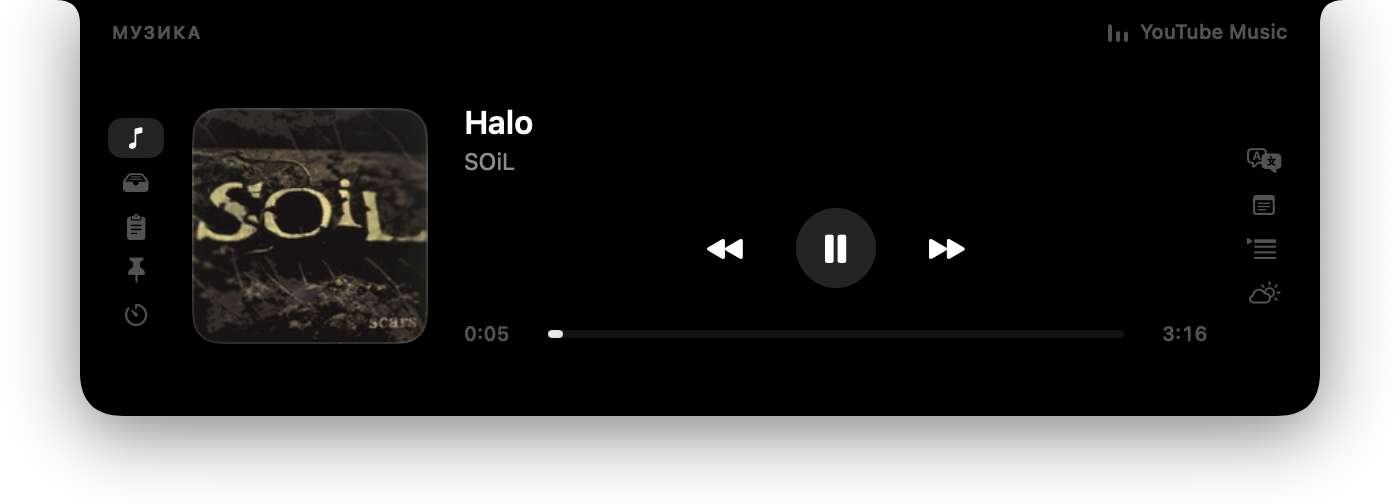
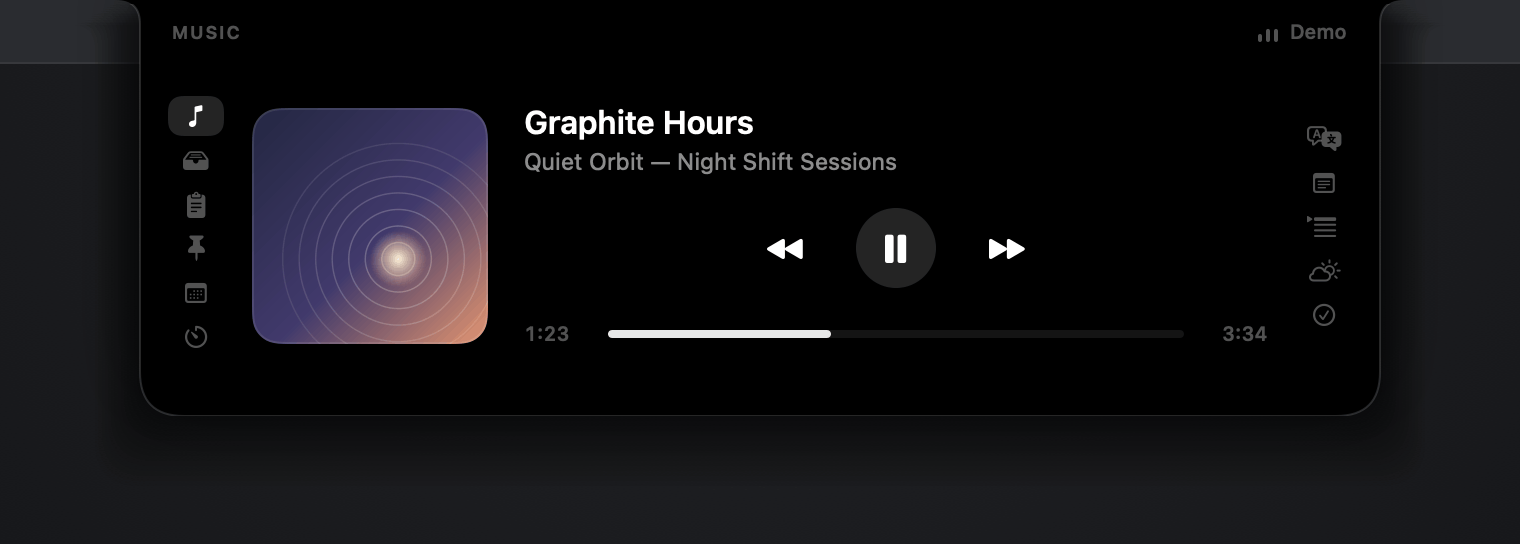
docs: replace third-party demo content
The walkthrough, media still, and social preview showed commercial album
covers, real artist names, and player branding. They are re-recorded from
the real panel with an invented track and original cover art, in English
and Ukrainian, and follow Music, Focus Timer, Translation, and Clipboard.
The unused Russian-language panel screenshot is removed.

diff --git a/README.uk.md b/README.uk.md
@@ -33,7 +33,7 @@ VoidBar перетворює порожній простір навколо но
 
 Живий тур продуктом: відкрийте нотч, керуйте музикою, запустіть фокус-таймер, перекладіть текст і повертайтеся до роботи.
 
-![Живий тур VoidBar із медіаконтролером, фокус-таймером і миттєвим перекладом](docs/assets/hover-demo.gif)
+![Огляд VoidBar: музика, фокус-таймер, переклад з англійської українською та історія буфера обміну](docs/assets/walkthrough.uk.gif)
 
 Це не другий робочий стіл. VoidBar розрахований на коротку дію: навели курсор, зробили потрібне, продовжили роботу. Вкладки можна міняти місцями та приховувати, щоб у панелі залишилося лише ваше.
 
@@ -60,7 +60,7 @@ VoidBar перетворює порожній простір навколо но
 - **TickTick** — завдання з вашої приватної iCal-підписки TickTick.
 - **Моніторинг** — CPU, пам'ять, завантаження та відвантаження даних одним поглядом.
 
-![Медіаконтролер VoidBar із YouTube Music](docs/assets/media.png)
+![Медіаконтролер VoidBar із демотреком і власною обкладинкою](docs/assets/media.uk.png)
 
 ## Зроблено як застосунок для Mac
 

diff --git a/README.md b/README.md
@@ -33,7 +33,7 @@ No Electron. No account. No project backend. Just SwiftUI, AppKit, and macOS.
 
 A live product tour: open the notch, control music, start a focus timer, translate text, and move on.
 
-![VoidBar live product tour showing music controls, a focus timer, and instant translation](docs/assets/hover-demo.gif)
+![VoidBar walkthrough: music controls, a focus timer, English-to-Ukrainian translation, and clipboard history](docs/assets/walkthrough.gif)
 
 The panel is not a second desktop. It is a short interaction: hover, do the thing, move on. Tabs can be reordered or hidden, so the rail only keeps what belongs in your workflow.
 
@@ -60,7 +60,7 @@ The panel is not a second desktop. It is a short interaction: hover, do the thin
 - **TickTick** — tasks from your private TickTick iCal subscription.
 - **System monitor** — CPU, memory, upload, and download activity at a glance.
 
-![VoidBar media controller with YouTube Music](docs/assets/media.png)
+![VoidBar media controller playing a demo track with original cover art](docs/assets/media.png)
 
 ## Designed like a Mac app
 
